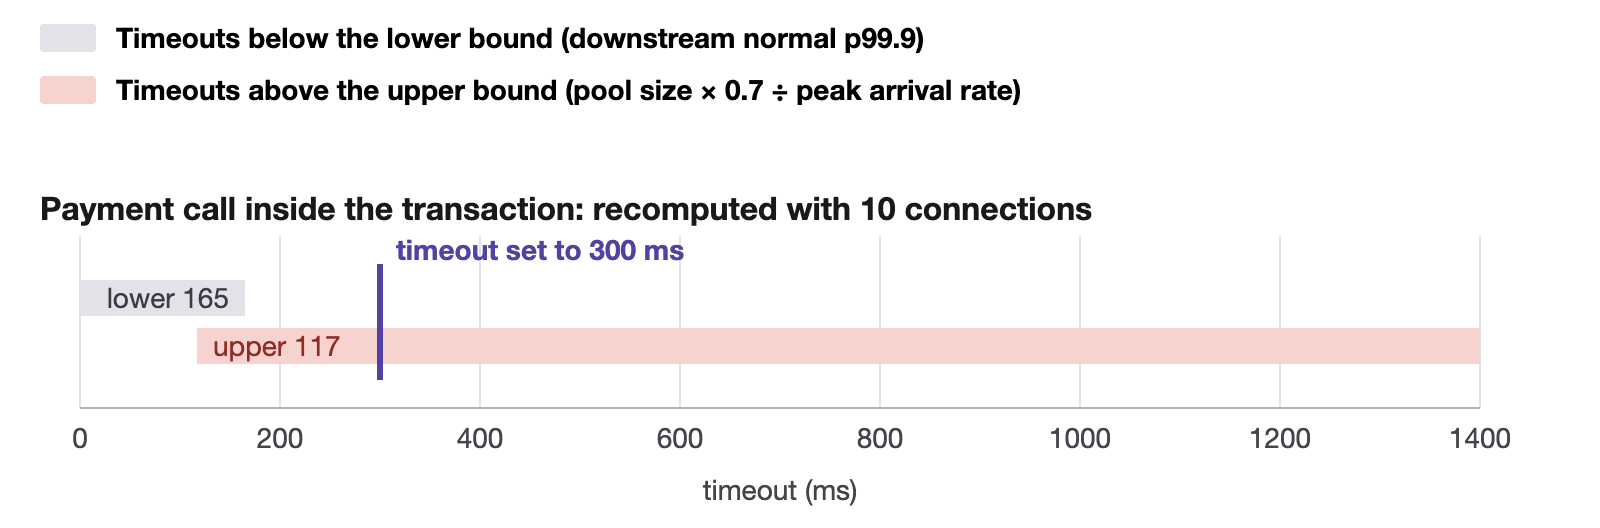
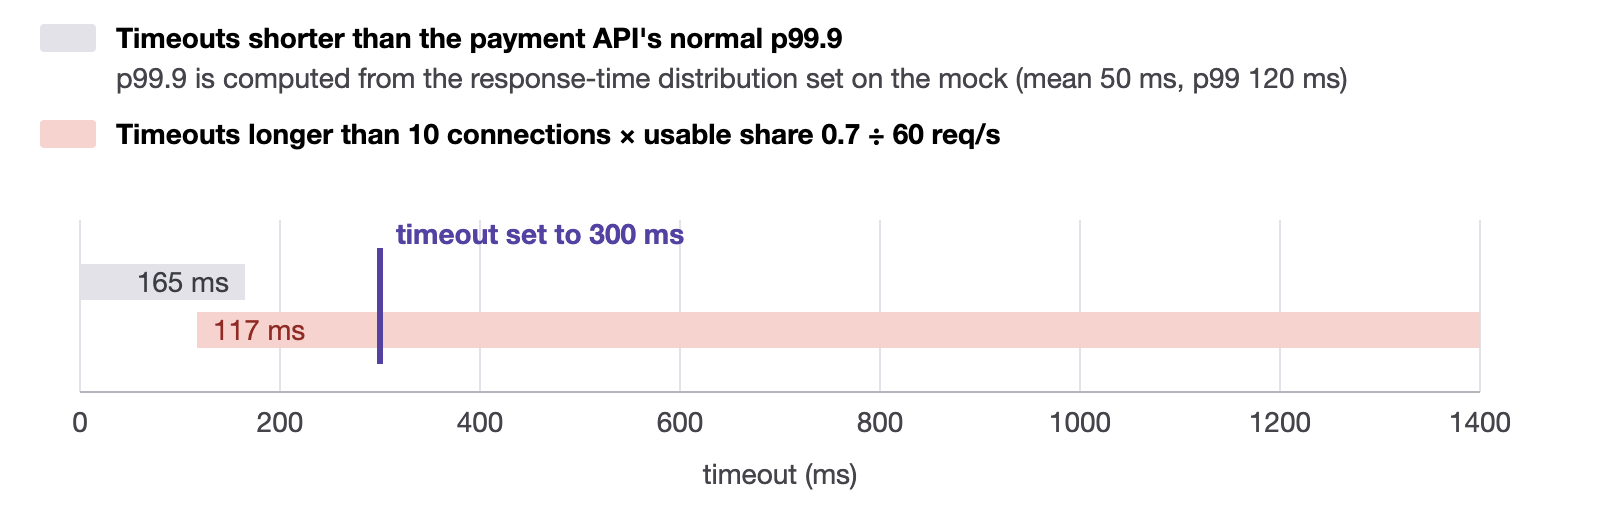
Say what each timeout stripe edge is and where p99.9 comes from instead of lower/upper labels

diff --git a/tools/diagrams/timeout-range.js b/tools/diagrams/timeout-range.js
@@ -1,5 +1,5 @@
 // タイムアウトの下限と上限の図（3 枚で共通）。HTML の側で TIMEOUT_CASE を決めてから読み込む
-// 帯は 2 本。上の帯は下限（下流の平常時の p99.9）より短いタイムアウト、下の帯は上限（プールの大きさ × 0.7 ÷ ピーク時の到着率）より長いタイムアウト。帯のあいだに隙間があれば、そこから選べる
+// 帯は 2 本。上の帯は下流の平常時の p99.9 より短いタイムアウト、下の帯はプールの大きさ × 0.7 ÷ 到着率より長いタイムアウト。帯のあいだに隙間があれば、そこから選べる
 const svg = document.getElementById('fig');
 defs(svg);
 const LX = 20, AX = 40, S = 0.5, MAX = 1400;
@@ -7,34 +7,32 @@ const X = (ms) => AX + ms * S;
 
 const CASES = {
   threads: {
-    head: tr('決済 API（平均 50ms・p99 120ms）、スレッド 40 本、到着 60 件/秒', 'Payment API (mean 50 ms, p99 120 ms), 40 threads, 60 req/s'),
+    dist: tr('平均 50ms・p99 120ms', 'mean 50 ms, p99 120 ms'), pool: tr('スレッド 40 本', '40 threads'),
     lower: 165, upper: 467, pick: 300,
   },
   connections: {
-    head: tr('決済 API をトランザクションの中で呼ぶ：コネクション 10 本で計算し直す', 'Payment call inside the transaction: recomputed with 10 connections'),
+    dist: tr('平均 50ms・p99 120ms', 'mean 50 ms, p99 120 ms'), pool: tr('コネクション 10 本', '10 connections'),
     lower: 165, upper: 117, pick: 300,
   },
   slow: {
-    head: tr('決済 API（平均 100ms・p99 600ms）、スレッド 40 本、到着 60 件/秒', 'Payment API (mean 100 ms, p99 600 ms), 40 threads, 60 req/s'),
+    dist: tr('平均 100ms・p99 600ms', 'mean 100 ms, p99 600 ms'), pool: tr('スレッド 40 本', '40 threads'),
     lower: 1263, upper: 467, pick: 800,
   },
 };
 const c = CASES[TIMEOUT_CASE];
 
-// 凡例：帯がどのタイムアウトの値か
+// 凡例：帯がどのタイムアウトの値か。値の出どころも書く
 let y = 24;
-for (const [cls, what] of [
-  ['z-short', tr('下限（下流の平常時の p99.9）より短いタイムアウト', 'Timeouts below the lower bound (downstream normal p99.9)')],
-  ['z-long', tr('上限（プールの大きさ × 0.7 ÷ ピーク時の到着率）より長いタイムアウト', 'Timeouts above the upper bound (pool size × 0.7 ÷ peak arrival rate)')],
-]) {
-  el(svg, 'rect', { class: cls, x: LX, y: y - 12, width: 28, height: 14, rx: 2 });
-  text(svg, LX + 38, y, 'lbl', what);
-  y += 26;
-}
+el(svg, 'rect', { class: 'z-short', x: LX, y: y - 12, width: 28, height: 14, rx: 2 });
+text(svg, LX + 38, y, 'lbl', tr('決済 API の平常時の p99.9 より短いタイムアウト', "Timeouts shorter than the payment API's normal p99.9"));
+text(svg, LX + 38, y + 20, 'small', tr(`p99.9 は、モックに設定した応答時間の分布（${c.dist}）から計算した値`, `p99.9 is computed from the response-time distribution set on the mock (${c.dist})`));
+y += 48;
+el(svg, 'rect', { class: 'z-long', x: LX, y: y - 12, width: 28, height: 14, rx: 2 });
+text(svg, LX + 38, y, 'lbl', tr(`${c.pool} × 使ってよい割合 0.7 ÷ 到着 60 件/秒 より長いタイムアウト`, `Timeouts longer than ${c.pool} × usable share 0.7 ÷ 60 req/s`));
+y += 10;
 
 const TOP = y + 20, SH = 18, GAP = 6;
-text(svg, LX, TOP + 14, 'hl', c.head);
-const ys = TOP + 44, yl = ys + SH + GAP, END = yl + SH + 22;
+const ys = TOP + 30, yl = ys + SH + GAP, END = yl + SH + 22;
 
 for (let ms = 0; ms <= MAX; ms += 200) el(svg, 'line', { class: 'row-grid', x1: X(ms), y1: ys - 22, x2: X(ms), y2: END });
 
@@ -49,8 +47,8 @@ function stripeLabel(x0, x1, ty, s, cls, side) {
 
 el(svg, 'rect', { class: 'z-short', x: X(0), y: ys, width: X(c.lower) - X(0), height: SH });
 el(svg, 'rect', { class: 'z-long', x: X(c.upper), y: yl, width: X(MAX) - X(c.upper), height: SH });
-stripeLabel(X(0), X(c.lower), ys + 14, tr(`下限 ${c.lower > 1000 ? '約 1300' : c.lower}`, `lower ${c.lower > 1000 ? '~1300' : c.lower}`), 't-short', 'end');
-stripeLabel(X(c.upper), X(MAX), yl + 14, tr(`上限 ${c.upper}`, `upper ${c.upper}`), 't-long', 'start');
+stripeLabel(X(0), X(c.lower), ys + 14, c.lower > 1000 ? tr('約 1300ms', '~1300 ms') : tr(`${c.lower}ms`, `${c.lower} ms`), 't-short', 'end');
+stripeLabel(X(c.upper), X(MAX), yl + 14, tr(`${c.upper}ms`, `${c.upper} ms`), 't-long', 'start');
 
 // 実験で設定したタイムアウト。右に入りきらなければ線の左に置く
 el(svg, 'line', { x1: X(c.pick), y1: ys - 8, x2: X(c.pick), y2: yl + SH + 8, stroke: '#5342a2', 'stroke-width': 3 });
